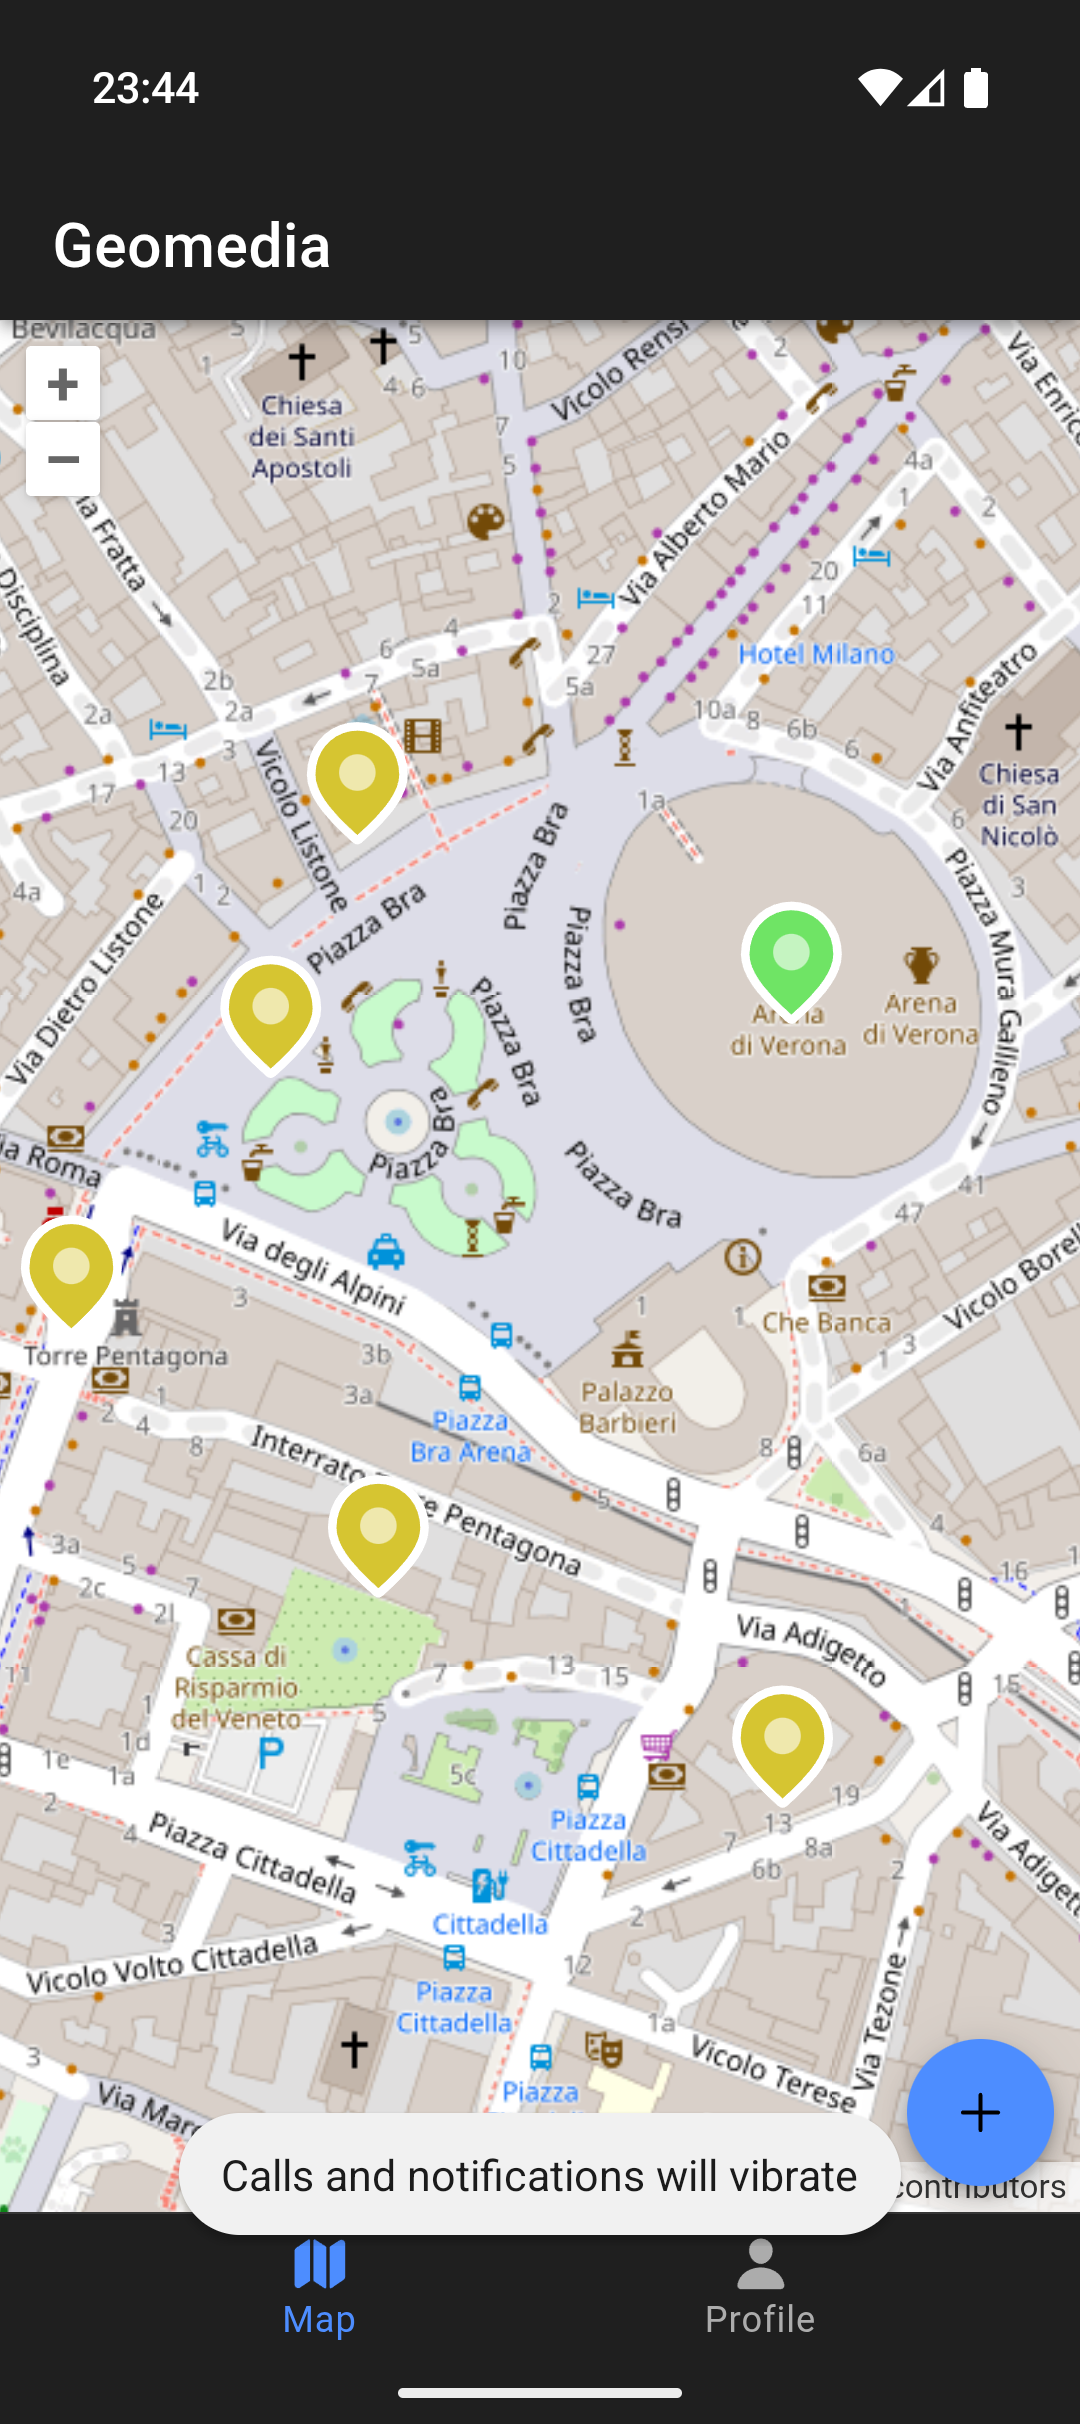
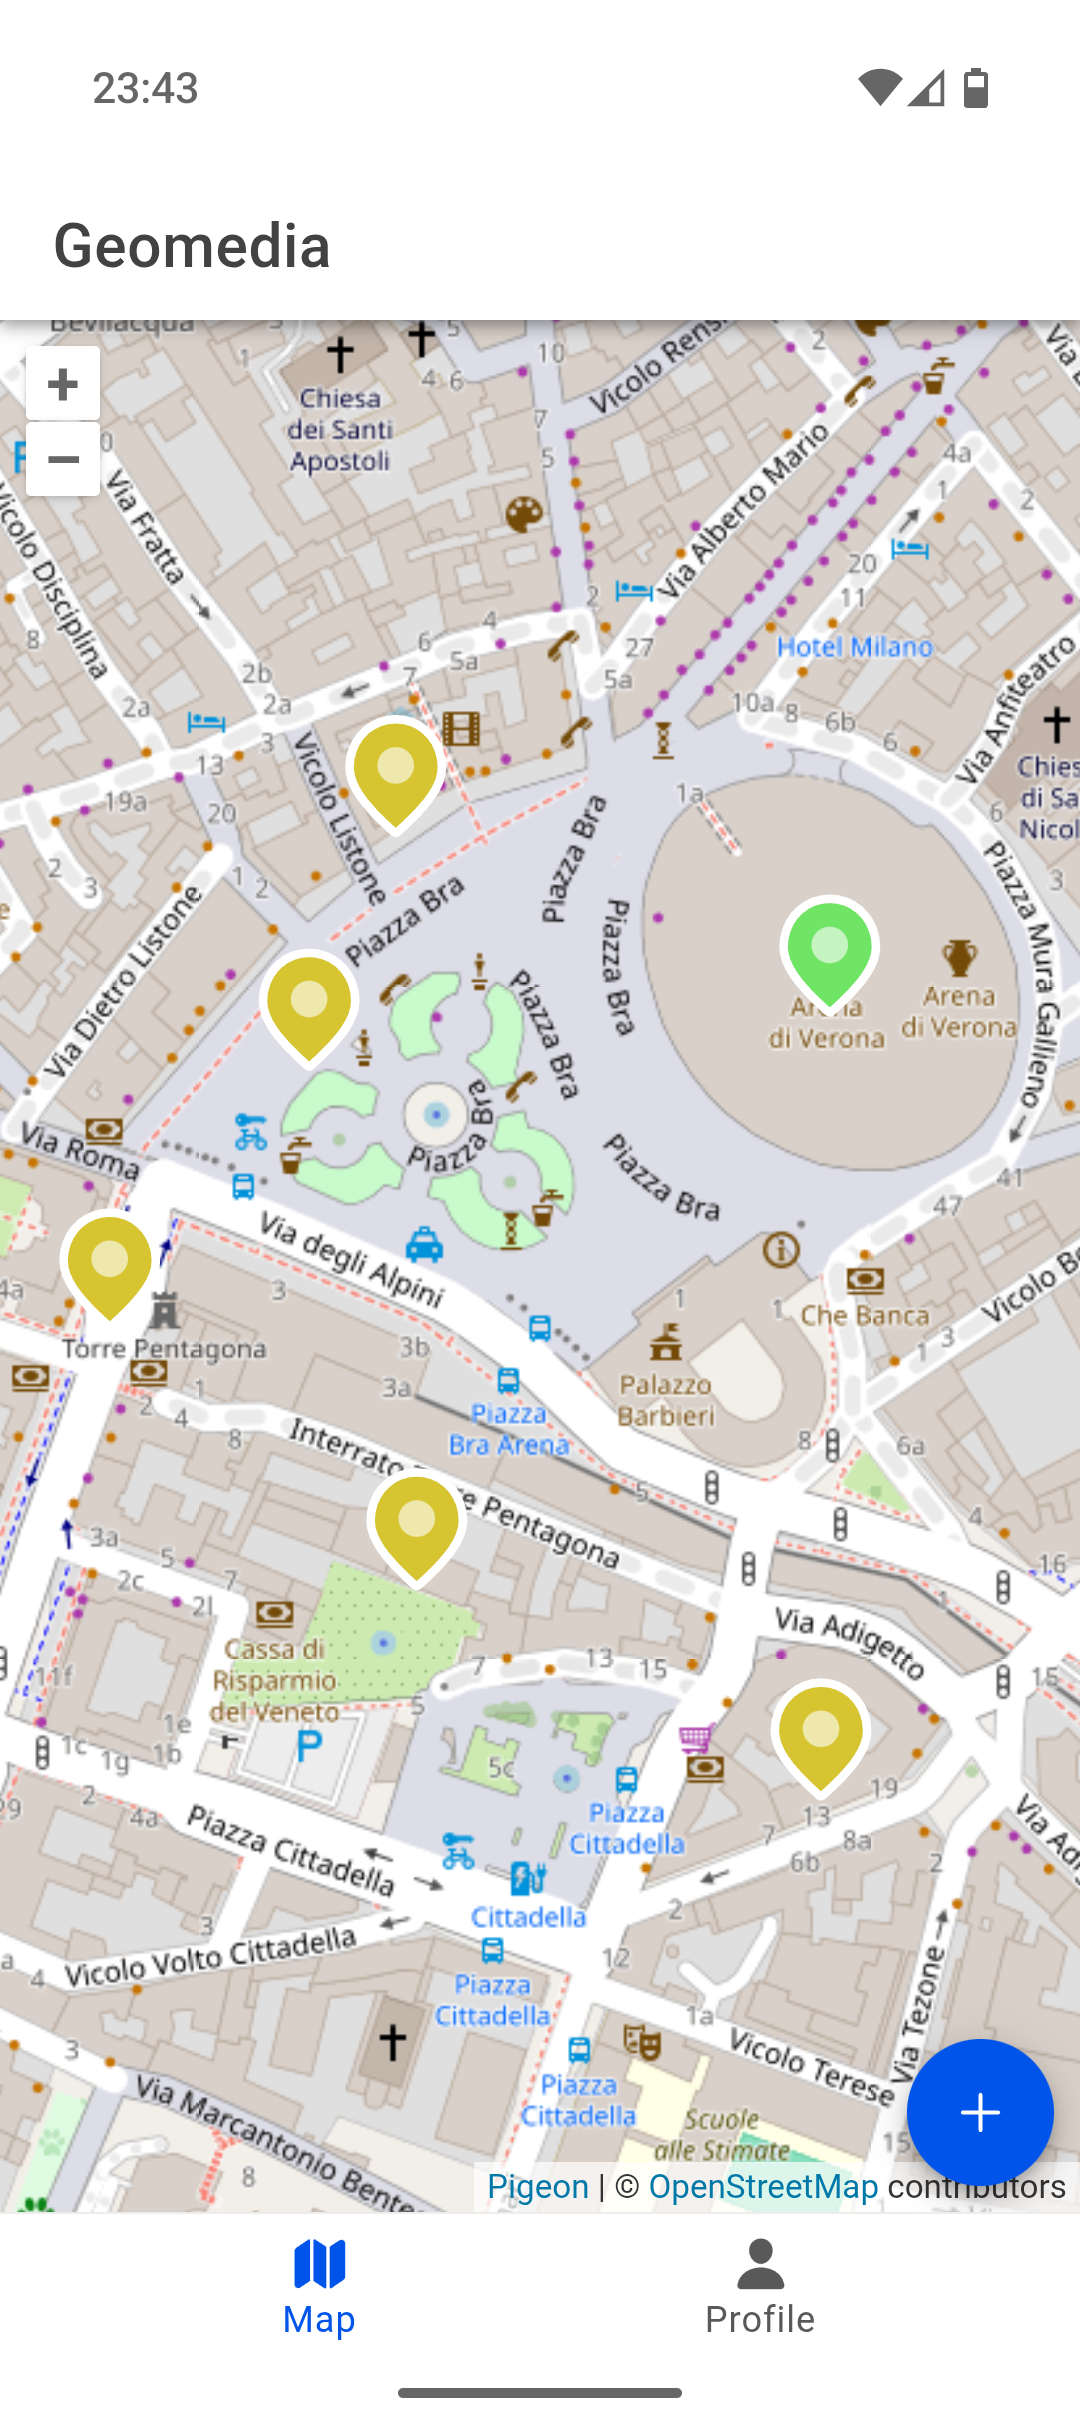
bck tex, new photos

diff --git a/Latex/WNMA_GeomediaFramework.tex b/Latex/WNMA_GeomediaFramework.tex
@@ -97,17 +97,29 @@ However, utilizing these features can lead to faster battery drain, higher data 
 
 \section{GeoMedia}
 
-This project aims to develop a simple mobile application that allows users to share comments, photos, audio, videos, and other multimedia content on the location where they are; and then, the possibility to navigate through a map to discover others' post
+GeoMedia insert itself among the others Online Social Networks (OSNS), offering another way to share content in order to discover new places by adding a comment or a multimedia file.
+In fact, the app just provide a geographical map, where users can fill it by posting photos, audios, videos or just a comment. So users are in charge to enrich the map of a city by creting a post, giving others the opportunity to discover secrets spots or facts about a place.
+Unlike ohters app seen before (i.e. Google Maps), the mobile app automatically get the position of the user posting by retrieving data from the GPS placed inside phones, bringing the online social network into the phyisical world. In fact, the app provide the feature to create some exclusive content by choosing to restrict the post published just in a determinate date or in a customizable geographical area.
+
+An interesting scenario could be adopted by the city of Pauda to explain one of it's dictum: ``citta` dei tre senza" (city without the three).
+Which consists in three things that Padua has but not in a proper way:
+\begin{itemize}
+    \item \textit{The Lawn Without Grass}, which is ``Prato della Valle" because the grass in it, is just ornamental is not really really a lawn like the word would intend
+    \item \textit{Saint without a name}, which is ``Saint Anthony of Padua" (Sant'Antonio da Padova) except that he wasn't from Padua, but from Portugal; and the friar only lived the last of his years on Padua
+    \item \textit{Coffee without doors}, and this is the ``Pedrocchi Coffee", because during war time was open all day (so the doors was removed) to provide shelter during the bombings.
+\end{itemize}
+So, the city of Padua could use GeoMedia to place some comments within these locations to tell the story of each particularity or even upload an old photos to shows as it was.
 \\
 
-The whole souce code developed, is available on GitHub. \cite{gh}
+In the end, GeoMedia, offers a full solution to share data in the location of where the end user is, without the effort to pick the right location as usually happens with other social network apps.
+
+The whole source code developed for this project is available on GitHub. \cite{gh}
 
 
 \section{Architecture}
 
-
 To ensure that the GeoMedia app functions as intended, there's the need to design an opportune architecture, even if not strictly related with the mobile application itself.
-In fact, the ``three-tier" model adopted, will allow mobile apps to communicate to each other without a direct connection.
+In fact, the three-tier model adopted will allow mobile apps to communicate to each other without a direct connection among devices.
 
 \begin{figure}[htbp]
 {\includegraphics[width=9.5cm]{imgs/Architecture.png}}
@@ -138,7 +150,7 @@ For example, the React' hook ``useEffect()" allows to call functions at the comp
 
 
 
-\subsection{Functionality and behaviour}
+\subsection{Key functionality}
 
 GeoMedia starts with a log-in component where users can choose to create a new profile or to sign in whenever they already have an account.
 \\
@@ -225,12 +237,15 @@ const MyPMap = () => { //declare the Map component
 export default MyPMap;
 \end{lstlisting}
 
-\begin{figure}[htbp]
-\begin{center}
-{\includegraphics[width=5.5cm, height=11cm]{imgs/Map.png}}
-\end{center}
-\caption{Result of Map component.}
-\label{fig}
+\begin{figure}
+\begin{minipage}{.2\textwidth}
+    \subfloat{\includegraphics[width=\textwidth]{imgs/Screenshots/Panoramica.png}}\label{fig:sub_a}}
+\end{minipage}
+\hfill    
+\begin{minipage}{.2\textwidth}
+    \subfloat{\includegraphics[width=\textwidth]{imgs/Screenshots/Centro.png}}\label{fig:sub_b}}
+\end{minipage}
+    \caption{Combined figure}\label{fig:sub}
 \end{figure}
 
 
@@ -292,6 +307,10 @@ The owner of the comment of course is able to delete it.
 \label{fig}
 \end{figure}
 
+\subsection{Exclusivity}
+
+A cool feature implemented in GeoMedia, is the exclusivity of the post
+
 
 \subsection{HTTP requests}
 
@@ -316,7 +335,7 @@ export const doRequest = (api, body = {}) => {
 \end{lstlisting}
 
 
-Thus to allow a simple configuration of server address, has been installed the ``Ionic Storage" \cite{b9} packet, which allows to store data into the application's cache installed in the mobile phones. In order to use this feature an installation is required via `\$ npm install @ionic/storage'
+To simplify the server configuration in the app, has been installed the ``Ionic Storage" \cite{b9} packet, which allows to store data into the application's cache installed in the mobile phones. In order to use this feature an installation is required via `\$ npm install @ionic/storage'
 
 
 
@@ -565,7 +584,7 @@ END;
 
 \section{Future extensions}
 
-In conclusion, GeoMedia offers a simple platform for sharing content on a geographic map. As previously mentioned, there are some key features that could be expanded.
+In conclusion, GeoMedia offers a platform for sharing content on a geographic map. As previously mentioned, there are some key features that could be expanded.
 
 Some ideas include:
 
